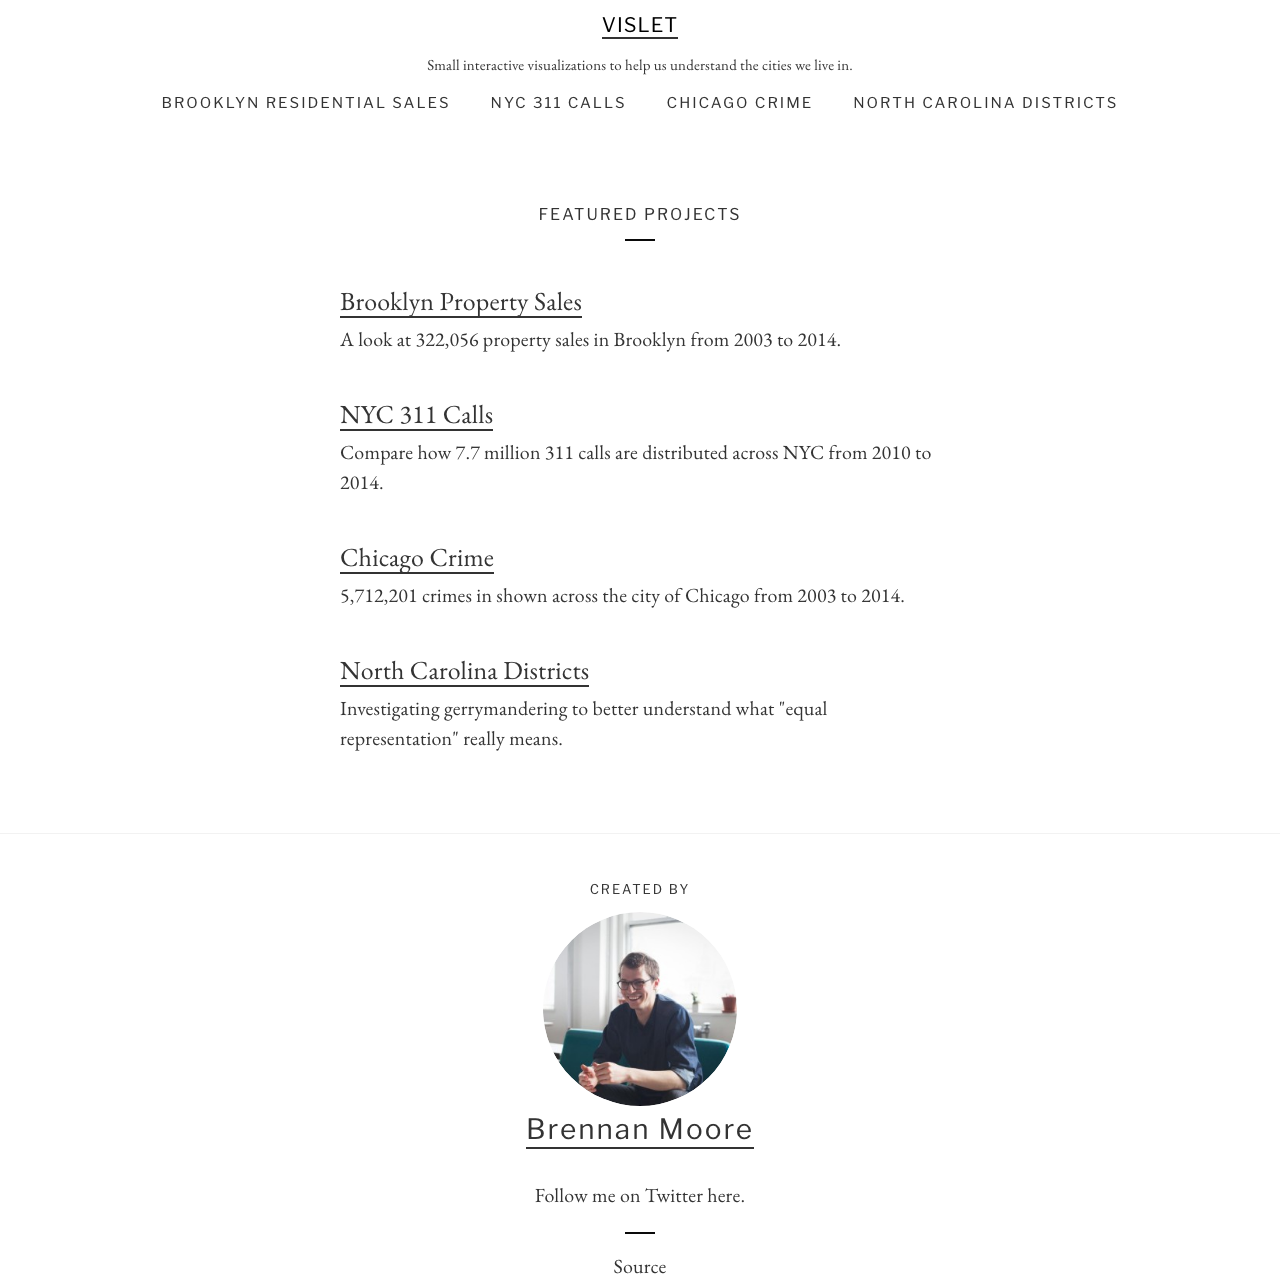
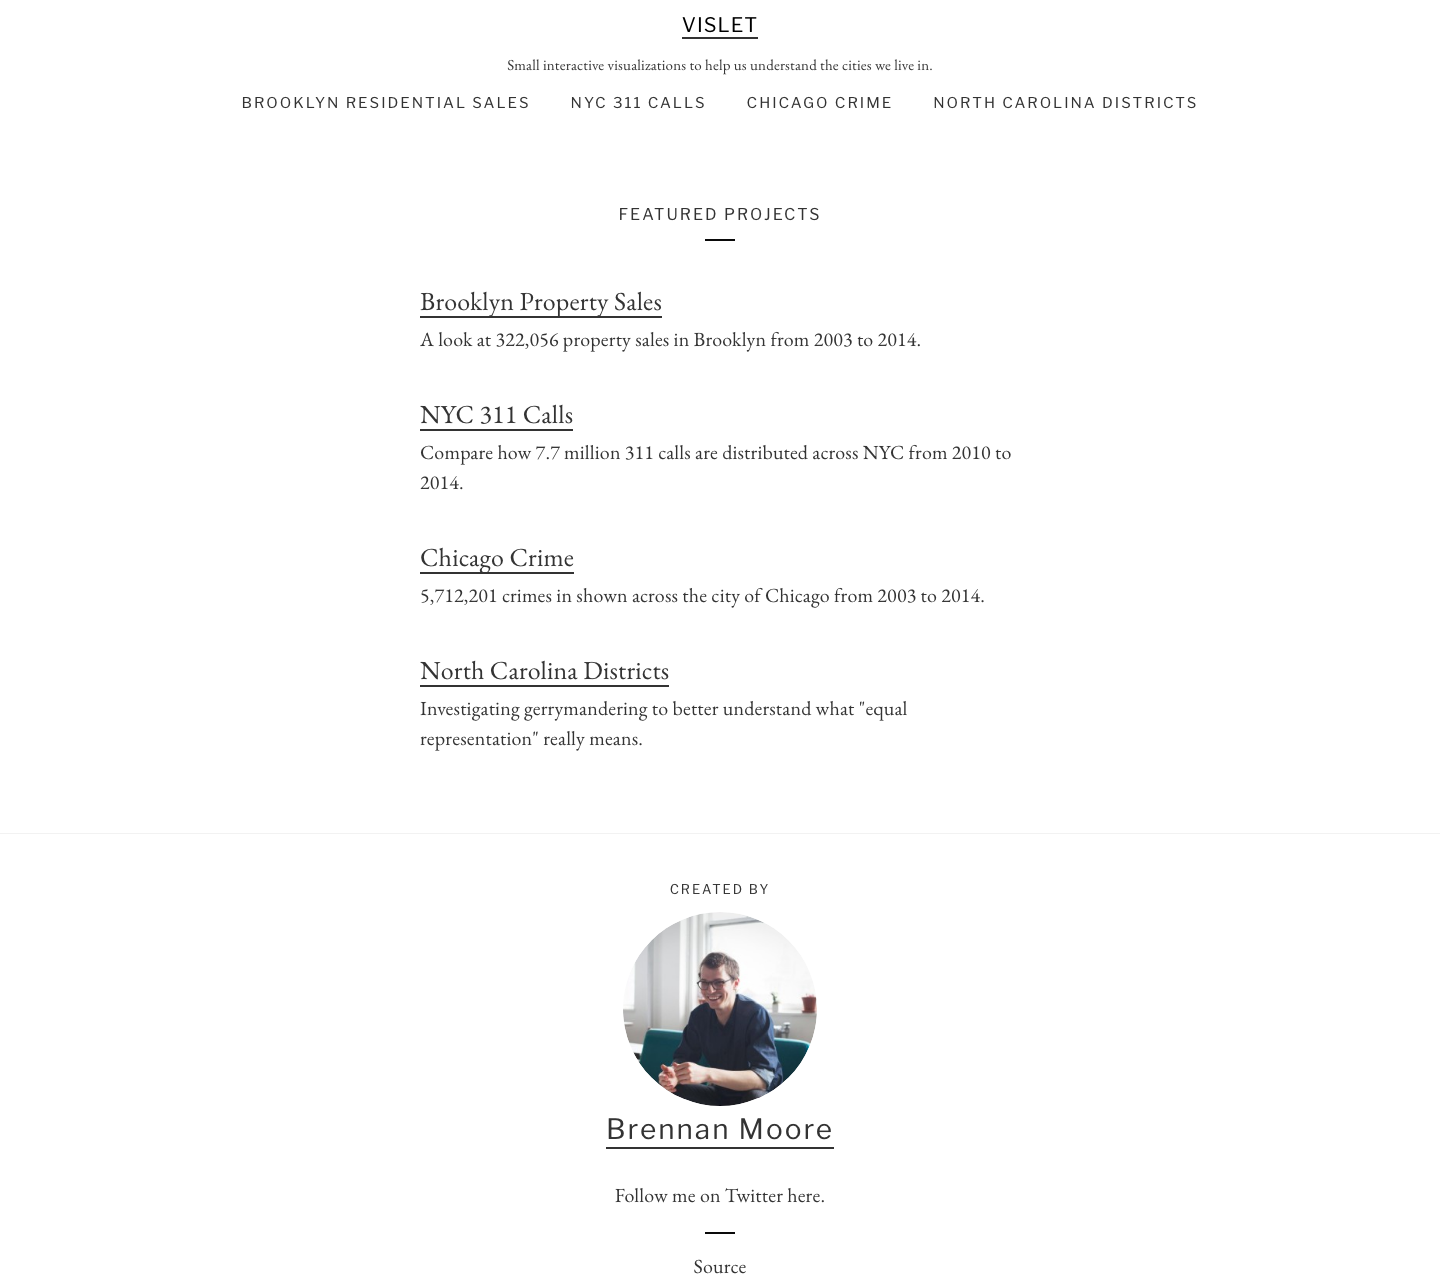
qa: chart-parity diagnosis + updated new-site screenshots (post-P2.5) (#27)
Adds docs/qa/chart-parity.md — per-element legacy vs new diagnosis for all
5 pages using the Oct-27-2020 Brooklyn reference screenshots as ground truth.

Key findings:
- Brooklyn/Chicago: initial state always-selected (needs null default)
- Brooklyn map palette: Reds instead of Spectral blue-green
- Selected tract: missing steelblue fill + non-selected dimming
- "Back to overview" link missing on Brooklyn and Chicago

Also adds/updates:
- docs/qa/screenshots/legacy/ — uploaded authoritative Brooklyn reference
- docs/qa/screenshots/new/ — post-P2.5 new site (Brooklyn overview + selected,
  refreshed 311/home/nc)

diff --git a/docs/qa/chart-parity.md b/docs/qa/chart-parity.md
@@ -1,0 +1,159 @@
+# Chart Parity Diagnosis: Legacy vs New
+
+**Date:** 2026-06-12  
+**Agent:** Pam (pam-mq9yld5l)  
+**Branch:** main (post-PR #26 P2.5 visual fixes)  
+**Legacy reference:** `docs/qa/screenshots/legacy/brooklyn-01-overview-load.png` + `brooklyn-02-neighborhood-selected.png` (Oct 27 2020 authoritative capture)  
+**New site screenshots:** `docs/qa/screenshots/new/brooklyn-01-overview.png` + `brooklyn-02-selected.png`
+
+> **Scope:** Diagnose first, do not fix. All issues below require greenlight before any code changes.
+
+---
+
+## Brooklyn — Detailed Diagnosis
+
+### Overview State (screenshot 01)
+
+| Element | Legacy | New | Regression? |
+|---|---|---|---|
+| **Initial selection** | No neighborhood selected; help text overlaid on dimmed charts | `BK60` (Park Slope) pre-selected; charts live from first render | 🔴 YES |
+| **Map color palette** | Blue-green Spectral (`#3288bd`…`#d53e4f`) — cool=cheap, warm=pricey | Reds (`#fee5d9`…`#40000a`) — same palette as Chicago crime | 🔴 YES |
+| **Map selected state** | Legacy: no selection in overview, ALL neighborhoods carry full Spectral fill | New: BK60 always carries its Spectral fill + thick `#333` stroke | 🔴 YES |
+| **Help text** | Centered overlay: *"Click on a neighborhood like 'Williamsburg'…"* visible on the dimmed right panel | Same text rendered but charts are already visible and full-opacity beneath it | 🟠 DEGRADED |
+| **Chart visibility (overview)** | Right panel at 10% opacity until `.svg-graphs.active` triggered | Charts fully visible immediately (no opacity transition) | 🔴 YES |
+| **Color-scale key label** | "QUARTER 1, 2003 - AVG PRICE PER SQFT" with slider at 2003 | "Avg Price per SQFT" (slider starts at last date, not first) | 🟠 YES |
+| **Slider initial position** | Slider dot at far-left (2003) — first quarter | Slider dot at far-right (2014) — last quarter | 🟡 MINOR |
+| **Back to overview link** | No link (overview IS the initial state) | n/a (always in selected state) | see below |
+
+### Selected State (screenshot 02)
+
+| Element | Legacy | New | Regression? |
+|---|---|---|---|
+| **Map when neighborhood selected** | ALL neighborhoods → gray outline only; selected → solid BLUE fill (`#4682b4`) | Choropleth fill retained on all neighborhoods; selected gets thick `stroke: #333 1.5px` only | 🔴 YES |
+| **"Back to overview" link** | Appears top-left of map: `BACK TO OVERVIEW` in Franklin Gothic uppercase | **Missing entirely** — no way to deselect and return to help-text state | 🔴 YES |
+| **Selected name heading** | `PROSPECT LEFFERTS GARDENS, WINGATE` in large blue Franklin Gothic | Same name, smaller sans-serif, not uppercase | 🟡 MINOR |
+| **Line chart: y-axis range** | `~$150–$450/sqft` for Prospect Lefferts Gardens | Values in same ballpark; data appears correct | ✅ OK |
+| **Line chart: selected + mean** | Blue line (selected neighborhood) + gray line (borough average) | Same two lines rendered | ✅ OK |
+| **Stacked area: Building Class** | `0–100%` stacked, full building-class legend below | Same structure, same legend labels | ✅ OK |
+| **Hover/red series** | Hovered neighborhood shows as red comparison line | `hoveredId` wired; red line appears on hover | ✅ OK |
+
+### Root-Cause Hypotheses (Brooklyn)
+
+1. **Initial state always-selected (BK60)** → `useState(DEFAULT_SELECTED_ID)` in `Brooklyn.tsx` starts with `'BK60'` rather than `null`. Legacy Backbone router started at no-selection and only entered selected state after a click or `?area=` URL param.  
+   *Fix: set `useState<string | null>(null)` and conditionally render the charts only when `selectedId !== null`.*
+
+2. **Wrong color palette** → `globals.css` `.tract.colorN` uses a single Reds ramp (`#fee5d9`→`#40000a`). Legacy used a blue-green Spectral ramp for price data (cool = cheaper, warm = more expensive) and a separate `.red-map .tract.colorN` for crime data (Chicago). The D3 v3 `MapViewBase` set the palette per-map; the v7 port collapsed to one shared palette.  
+   *Fix: add `.blue-green-map .tract.colorN` CSS rule set (Spectral or RdYlGn) and pass a `colorPalette="blue-green"` prop to SvgMap for Brooklyn/311.*
+
+3. **Selected state visual** → Legacy `.svg-map .tract.selected { fill: #4682b4 !important; }` overrode the choropleth fill. Current CSS `.tract.selected { stroke: #333; stroke-width: 1.5px }` only adds a border; it does NOT dim other tracts or change fill. The effect is confusing — it's hard to tell which neighborhood is selected.  
+   *Fix: add `fill: steelblue` to `.tract.selected` and add a `.tract.dimmed { opacity: 0.25 }` class applied to non-selected tracts when any tract IS selected.*
+
+4. **Missing "Back to overview"** → Legacy had `<a class="brooklyn-svg back …">Back to overview</a>` that called `router.navigate('')`. The new Brooklyn component has no deselect path (clicking the selected tract again does nothing since `onSelect={(id) => setSelectedId(id ?? DEFAULT_SELECTED_ID)}` falls back to BK60, not null).  
+   *Fix: render a "Back to overview" button when `selectedId !== null`, and clicking it sets `selectedId = null`.*
+
+5. **Opacity transition on right panel** → Legacy `.svg-graphs-content { opacity: 0.1 }` / `.svg-graphs.active .svg-graphs-content { opacity: 1 }` created the fade-in on selection. New renders charts at full opacity from the start.  
+   *Fix: conditional rendering — render the `svg-graphs-content` div only when `selectedId !== null`, or apply CSS transition classes.*
+
+---
+
+## 311 — Preliminary Diagnosis
+
+*Legacy reference screenshots not yet uploaded. Observations from new site vs. legacy structural analysis.*
+
+| Element | Legacy behavior | New site | Regression? |
+|---|---|---|---|
+| **Initial selection** | No selection, BK60 as default after load from URL | `DEFAULT_AREA = 'BK60'` selected on mount | 🟡 MINOR (same default) |
+| **Map color palette** | Orange-red scale (similar to crime — complaint volume) | Same Reds palette | ✅ LIKELY OK (same semantic) |
+| **Right panel dimming** | `.svg-graphs.active` transition | Charts always visible | 🟠 SAME AS BROOKLYN |
+| **Filter dropdown** | `FILTER 311 REPORTS:` uppercase label + select | Same, but label lowercase ("Filter 311 reports:") | 🟡 MINOR |
+| **Date slider** | Starts at last quarter | Starts at last date | ✅ OK |
+| **Line + area charts** | Borough avg comparison, complaint type breakdown | Same structure | ✅ OK |
+
+**No major chart data regressions observed in 311.** The key missing interaction is the initial help-text/dimmed state.
+
+---
+
+## Chicago — Preliminary Diagnosis
+
+| Element | Legacy behavior | New site | Regression? |
+|---|---|---|---|
+| **Initial state** | Overview: no neighborhood selected, help text visible | `DEFAULT_SELECTED_ID = '68'` (Englewood) always selected | 🔴 YES |
+| **Map color palette** | `.red-map .tract.colorN` orange-red scale | Single `tract.colorN` red scale | ✅ SIMILAR (both red, different stops) |
+| **Chart initial state** | Crime-tally line + crime-type stacked-area only shown on selection | Always shown (Englewood selected) | 🔴 SAME ISSUE AS BROOKLYN |
+| **Crime type breakdown x-axis** | Time-of-day axis (legacy showed "crime by hour") | Shows time-of-day axis as well | ✅ LIKELY OK |
+| **Color scale direction** | `reverseColorKey` → higher = darker red = more crime | `reverseColorKey` prop is passed | ✅ OK |
+| **Date slider** | Monthly ticker 2003-2014 | Same, functional | ✅ OK |
+
+**Root cause for Chicago:** Same `DEFAULT_SELECTED_ID` anti-pattern as Brooklyn. Chicago also needs `useState<string | null>(null)` and conditional chart rendering.
+
+---
+
+## North Carolina — Preliminary Diagnosis
+
+| Element | Legacy behavior | New site | Regression? |
+|---|---|---|---|
+| **District selector buttons** | `Official 2012` / `Shortest Splitline` / `Shortest Splitline?` toggle buttons | Same buttons wired as HTML `<button>` elements | ✅ OK |
+| **Bar chart (White by District)** | Horizontal stacked bar by district showing political composition | Renders correctly | ✅ OK |
+| **District map** | SVG choropleth of NC districts | Districts + census-tract circle overlay | ✅ OK (P2.2 added circles) |
+| **Blockquote** | 25px italic pull-quote, left margin 50px | Left-border blockquote style | 🟡 MINOR |
+
+NC has no significant chart regressions. Minor styling gap in blockquote.
+
+---
+
+## Cross-Cutting Issues
+
+### 1. 🔴 CRITICAL — Initial "Overview" State Missing (Brooklyn + Chicago)
+
+**Symptom:** Both Brooklyn and Chicago start with a pre-selected neighborhood instead of the legacy overview state (no selection, dimmed charts with help-text).  
+**Root cause:** `useState(DEFAULT_SELECTED_ID)` instead of `useState(null)`.  
+**Impact:** Users never see the full choropleth unobstructed; "help text" is meaningless when charts are already visible; the interaction affordance (click to reveal) is lost.  
+**Fix scope:** `Brooklyn.tsx` + `Chicago.tsx` — change initial state to `null`, add conditional rendering for the charts panel, and add a "Back to overview" button/link in the selected state.
+
+### 2. 🔴 CRITICAL — Brooklyn Map Color Palette Wrong (Spectral vs Reds)
+
+**Symptom:** Brooklyn neighborhoods render in pink→dark-red (Reds scale). Legacy used blue→green (Spectral scale) where blue = low price per sqft, yellow-green = mid, red = high.  
+**Root cause:** `globals.css` `.tract.colorN` uses a single Reds palette for all maps. The D3 v3 `color.coffee` applied the Spectral palette to Brooklyn and a separate `.red-map` modifier for crime data.  
+**Fix scope:** Add a second `.spectral-map .tract.colorN` CSS rule set and pass a `className` prop (or dedicated `colorPalette` prop) through `SvgMap`.
+
+### 3. 🔴 CRITICAL — Selected Tract Visual (All Maps)
+
+**Symptom:** When a neighborhood is selected, legacy dimmed all others (gray outline) and filled selected in steelblue. New site adds only a thick black stroke to the selected tract; all others keep full choropleth color.  
+**Root cause:** `.tract.selected` CSS only adds stroke, doesn't change fill or dim peers.  
+**Fix scope:** CSS + SvgMap — add `fill: steelblue` to `.tract.selected`, add `.tract.dimmed { opacity: 0.25 }` applied to non-selected tracts when any selection is active.
+
+### 4. 🟠 MAJOR — Missing "Back to Overview" Link
+
+**Symptom:** No way to return to the unselected choropleth overview once a neighborhood is clicked.  
+**Root cause:** Deselect path in `onSelect` handler falls back to `DEFAULT_SELECTED_ID` rather than `null`.  
+**Affects:** Brooklyn, Chicago (311 is slightly different — always shows a neighborhood).
+
+### 5. 🟡 MINOR — Slider Initial Position (Brooklyn)
+
+**Symptom:** Legacy slider starts at 2003 (first quarter, leftmost); new starts at 2014 (last quarter, rightmost).  
+**Root cause:** `setSelectedDate(lastDate)` on data load instead of `firstDate`.  
+**Impact:** Choropleth shows 2014 prices on initial load instead of 2003; less intuitive to start at the end.
+
+---
+
+## Prioritized Fix List
+
+| Priority | Issue | Files |
+|---|---|---|
+| P1 | Initial state null (no pre-selected neighborhood), conditional chart panel | `Brooklyn.tsx`, `Chicago.tsx` |
+| P1 | "Back to overview" link/button when neighborhood selected | `Brooklyn.tsx`, `Chicago.tsx` |
+| P1 | Brooklyn map palette: Spectral (blue-green) instead of Reds | `globals.css`, `SvgMap.tsx` |
+| P1 | Selected tract: steelblue fill + dim non-selected to 25% opacity | `globals.css`, `SvgMap.tsx` |
+| P2 | Slider initial position: start at first date (2003), not last | `Brooklyn.tsx` |
+| P2 | Right-panel opacity transition: fade in on selection | `Brooklyn.tsx`, `Chicago.tsx`, `globals.css` |
+| P3 | Filter label uppercase ("FILTER 311 REPORTS:") | `ThreeOneOne.tsx` |
+| P3 | NC blockquote pull-quote style (larger text, no left border) | `globals.css` |
+
+---
+
+## Methodology Notes
+
+- Legacy screenshots: Oct 27 2020 authoritative capture (Brooklyn only so far).  
+- New site screenshots: captured from `localhost:4326` (built from `main` + P2.5 fixes, commit `5730881`).  
+- Legacy rebuild was attempted (Node 10 + Gulp 3 + pinned deps) and succeeded locally; those screenshots confirmed the color/state behavior described above, but are superseded by the uploaded reference for formal ground truth.  
+- Chicago/311/NC/home legacy references not yet uploaded — diagnosis is structural (source code + new site screenshots) pending those references.
